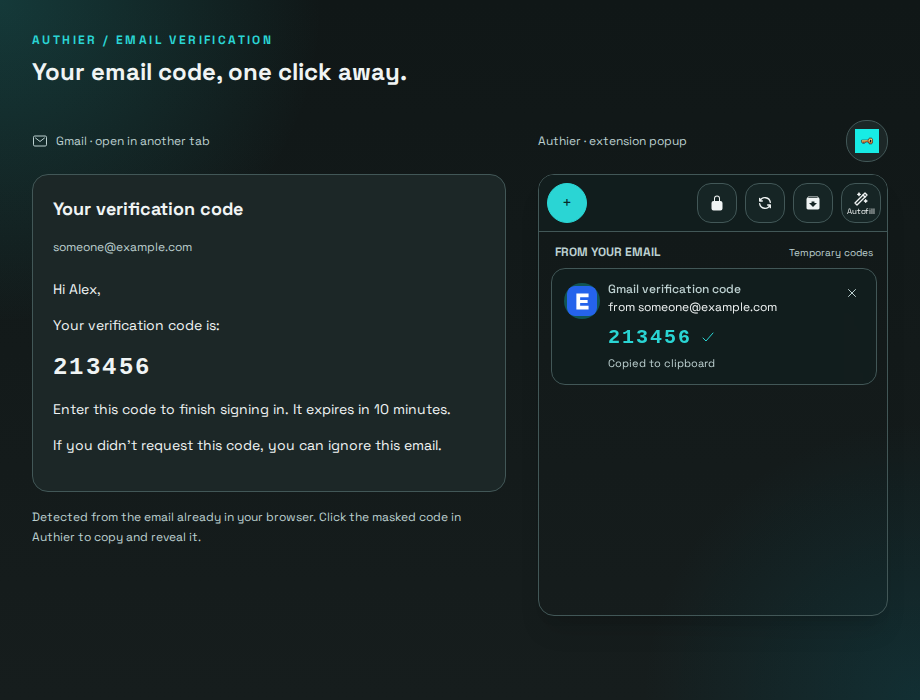
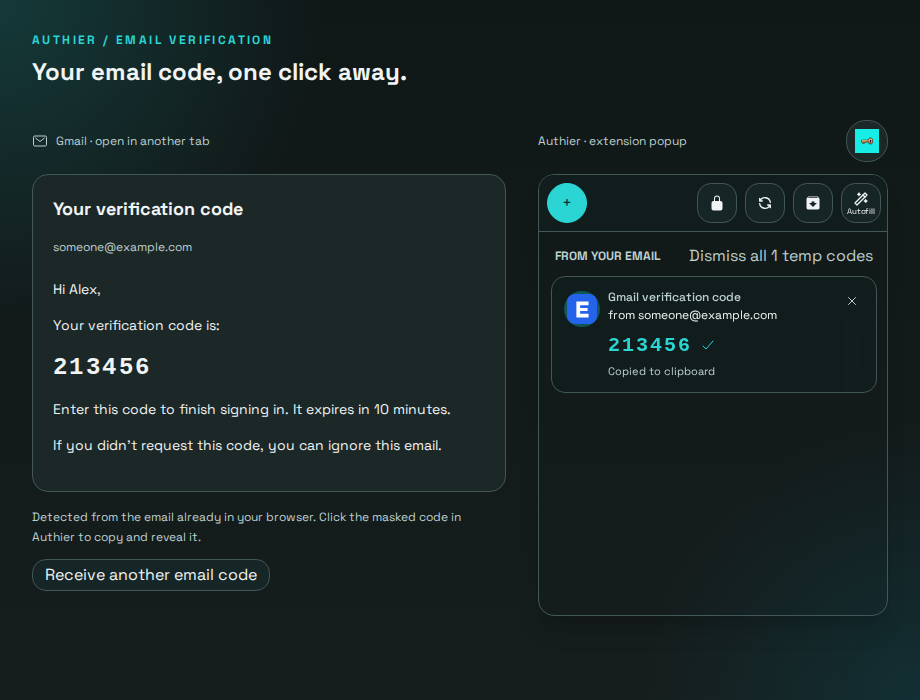
Add bulk dismissal for verification codes

Changed region(s): [[0.6087, 0.33, 0.9435, 0.54], [0.0304, 0.81, 0.3043, 0.84]]

diff --git a/web-extension/src/verification-codes/VerificationCodes.tsx b/web-extension/src/verification-codes/VerificationCodes.tsx
@@ -136,23 +136,51 @@ const VerificationCodeItem = ({
 const CodeSection = ({
   section,
   entries,
-  update
+  update,
+  dismissAll
 }: {
   section: (typeof codeSections)[number]
   entries: VerificationCode[]
   update: UpdateCode
+  dismissAll: ReturnType<typeof useVerificationCodes>['dismissAll']
 }) => {
+  const [busy, setBusy] = useState(false)
+  const [error, setError] = useState('')
   if (!entries.length) return null
+
+  const dismiss = () => {
+    setBusy(true)
+    setError('')
+    void dismissAll(entries)
+      .catch(() => {
+        setError('Could not dismiss the codes. Please try again.')
+      })
+      .finally(() => setBusy(false))
+  }
+
   return (
     <section aria-label={section.label} className="px-3 pt-3 pb-1">
       <div className="mb-2 flex items-center justify-between gap-2 px-1">
         <h2 className="text-xs font-semibold text-[color:var(--color-muted)]">
           {section.heading}
         </h2>
-        <span className="text-[10px] text-[color:var(--color-muted)]">
-          Temporary codes
-        </span>
+        <button
+          type="button"
+          className="shrink-0 rounded-sm text-[10px] text-[color:var(--color-muted)] hover:text-[color:var(--color-primary)] hover:underline focus-visible:outline-[color:var(--color-ring)] disabled:opacity-60"
+          disabled={busy}
+          onClick={dismiss}
+        >
+          Dismiss all {entries.length} temp codes
+        </button>
       </div>
+      {error ? (
+        <p
+          role="alert"
+          className="mb-2 text-xs text-[color:var(--color-danger)]"
+        >
+          {error}
+        </p>
+      ) : null}
       <ul className="grid gap-2">
         {entries.map((entry) => (
           <VerificationCodeItem key={entry.id} entry={entry} update={update} />
@@ -163,7 +191,7 @@ const CodeSection = ({
 }
 
 export const VerificationCodes = () => {
-  const { entries, error, update } = useVerificationCodes()
+  const { entries, error, update, dismissAll } = useVerificationCodes()
   if (!entries.length && !error) return null
 
   return (
@@ -182,6 +210,7 @@ export const VerificationCodes = () => {
           section={section}
           entries={entries.filter(section.includes)}
           update={update}
+          dismissAll={dismissAll}
         />
       ))}
     </>

diff --git a/web-extension/src/background/verificationCodes.spec.ts b/web-extension/src/background/verificationCodes.spec.ts
@@ -250,15 +250,17 @@ describe('verification code background messages', () => {
 
   it('does not disclose codes to Gmail or ordinary content scripts', async () => {
     await report()
+    const [entry] = await list()
     for (const kind of [
       CodeMessageKind.LIST,
       CodeMessageKind.COPIED,
       CodeMessageKind.DISMISS,
+      CodeMessageKind.DISMISS_MANY,
       CodeMessageKind.OPEN_SOURCE
     ]) {
       expect(
         await handleVerificationCodeMessage(
-          { kind, id: (await list())[0].id },
+          { kind, id: entry.id, ids: [entry.id] },
           gmailSender
         )
       ).toBeNull()
@@ -488,6 +490,41 @@ describe('verification code background messages', () => {
     await report()
     expect(await list()).toEqual([])
     expect(JSON.stringify(storage)).not.toContain(candidate.code)
+  })
+
+  it('dismisses the selected codes atomically and does not resurrect them', async () => {
+    await Promise.all([report(), report('ABCDEFGH')])
+    const entries = await list()
+    vi.mocked(browser.storage.session.set).mockClear()
+    const response = await handleVerificationCodeMessage(
+      {
+        kind: CodeMessageKind.DISMISS_MANY,
+        ids: entries.map((entry) => entry.id)
+      },
+      popupSender
+    )
+    expect(response).toEqual([])
+    expect(browser.storage.session.set).toHaveBeenCalledTimes(1)
+    expect(setBadgeText).toHaveBeenLastCalledWith({ text: '' })
+    await Promise.all([report(), report('ABCDEFGH')])
+    expect(await list()).toEqual([])
+  })
+
+  it('preserves codes arriving before a queued bulk dismissal is processed', async () => {
+    await report()
+    const [entry] = await list()
+    await Promise.all([
+      report('A1B2C3'),
+      handleVerificationCodeMessage(
+        { kind: CodeMessageKind.DISMISS_MANY, ids: [entry.id] },
+        popupSender
+      )
+    ])
+    const remaining = await list()
+    expect(remaining).toHaveLength(1)
+    expect(remaining[0].code).toBe('A1B2C3')
+    expect(remaining[0].copied).toBe(false)
+    expect(setBadgeText).toHaveBeenLastCalledWith({ text: '•' })
   })
 
   it('expires code values and clears the badge and alarm', async () => {

diff --git a/web-extension/ui-preview/scenarios/EmailVerificationCodesPreview.tsx b/web-extension/ui-preview/scenarios/EmailVerificationCodesPreview.tsx
@@ -1,16 +1,21 @@
-import { useSyncExternalStore } from 'react'
+import { useState, useSyncExternalStore } from 'react'
 import { IoMailOutline } from 'react-icons/io5'
 import { VerificationCodes } from '@src/verification-codes/VerificationCodes'
 import { observeGmailCodes } from '@src/verification-codes/readGmailCodes'
+import { Button } from '@src/components/ui/button'
 import { PopupPreview } from '../PopupPreview'
 import { getPreviewActiveTabId, subscribePreviewTab } from '../browserMock'
-import { gmailVerificationEmail } from '../fixtures/gmailVerificationEmail'
+import {
+  gmailVerificationEmail,
+  gmailUnreadVerificationEmail
+} from '../fixtures/gmailVerificationEmail'
 import {
   CodePopupToolbar,
   useCodePreviewBackground
 } from './codePreviewBackground'
 
 export const EmailVerificationCodesPreview = () => {
+  const [email, setEmail] = useState(gmailVerificationEmail)
   const ready = useCodePreviewBackground({
     reportUrl: 'https://mail.google.com/mail/u/0/#inbox',
     reportTabId: 42,
@@ -40,12 +45,20 @@ export const EmailVerificationCodesPreview = () => {
           <div
             data-gmail-fixture
             className="rounded-2xl border border-[color:var(--color-border)] bg-[color:var(--color-card)] p-5 text-sm [&_.hP]:mb-4 [&_.hP]:text-lg [&_.hP]:font-semibold [&_.gE]:mb-6 [&_.gE]:text-xs [&_.gE]:text-[color:var(--color-muted)] [&_p]:mb-4 [&_strong]:font-mono [&_strong]:text-2xl [&_strong]:tracking-widest"
-            dangerouslySetInnerHTML={{ __html: gmailVerificationEmail }}
+            dangerouslySetInnerHTML={{ __html: email }}
           />
           <p className="mt-4 text-xs leading-relaxed text-[color:var(--color-muted)]">
             Detected from the email already in your browser. Click the masked
             code in Authier to copy and reveal it.
           </p>
+          <Button
+            className="mt-3"
+            size="sm"
+            variant="outline"
+            onClick={() => setEmail(gmailUnreadVerificationEmail)}
+          >
+            Receive another email code
+          </Button>
         </div>
         <div>
           <CodePopupToolbar badgeLabel="New email verification code" />

diff --git a/web-extension/tests/ui-preview/emailVerificationCodes.spec.ts b/web-extension/tests/ui-preview/emailVerificationCodes.spec.ts
@@ -136,6 +136,44 @@ test('detects a later unread inbox email while the popup is already open', async
   await expect(page.getByLabel('New email verification code')).toBeVisible()
 })
 
+test('bulk dismissal counts codes and keeps an email received half a second before clicking', async ({
+  page
+}) => {
+  await page.clock.install()
+  await page.goto('/?scenario=email-verification-codes')
+  const popup = page.locator('[data-preview-popup]')
+  await expect(popup.getByText('213***', { exact: true })).toBeVisible()
+  await expect(
+    popup.getByRole('button', { name: 'Dismiss all 1 temp codes', exact: true })
+  ).toBeVisible()
+  await page.clock.runFor(1000)
+  await page.getByRole('button', { name: 'Receive another email code' }).click()
+  await page.clock.runFor(500)
+  await expect(popup.getByText('A7B*****', { exact: true })).toBeVisible()
+  await page.screenshot({
+    path: '../docs/screenshots/email-verification-codes-dismiss-all.png'
+  })
+  await popup
+    .getByRole('button', { name: 'Dismiss all 2 temp codes', exact: true })
+    .click()
+  await expect(popup.getByText('213***', { exact: true })).toHaveCount(0)
+  await expect(popup.getByText('A7B*****', { exact: true })).toBeVisible()
+  await expect(page.getByLabel('New email verification code')).toBeVisible()
+  const dismiss = popup.getByRole('button', {
+    name: 'Dismiss all 1 temp codes',
+    exact: true
+  })
+  await dismiss.click()
+  await expect(popup.getByText('A7B*****', { exact: true })).toBeVisible()
+  // Allow a full second after the observer has detected the new email.
+  await page.clock.runFor(1000)
+  await dismiss.click()
+  await expect(
+    popup.getByRole('region', { name: 'Email verification codes' })
+  ).toHaveCount(0)
+  await expect(page.getByLabel('New email verification code')).toHaveCount(0)
+})
+
 test('copies normalized codes from different real browser HTML layouts', async ({
   page
 }) => {

diff --git a/web-extension/src/verification-codes/useVerificationCodes.spec.ts b/web-extension/src/verification-codes/useVerificationCodes.spec.ts
@@ -1,0 +1,54 @@
+import { act, renderHook } from '@testing-library/react'
+import { afterEach, beforeEach, expect, it, vi } from 'vitest'
+import browser from 'webextension-polyfill'
+import {
+  CodeMessageKind,
+  VERIFICATION_CODE_LIFETIME_MS,
+  type VerificationCode
+} from './verificationCodeProtocol'
+import { useVerificationCodes } from './useVerificationCodes'
+
+const code = (age: number): VerificationCode => ({
+  provider: 'Gmail',
+  sender: 'someone@example.com',
+  code: '213456',
+  id: crypto.randomUUID(),
+  detectedAt: Date.now() - age,
+  expiresAt: Date.now() + VERIFICATION_CODE_LIFETIME_MS,
+  copied: false
+})
+
+beforeEach(() => {
+  vi.useFakeTimers()
+  vi.setSystemTime(new Date('2026-10-05T12:00:00Z'))
+  vi.mocked(browser.runtime.sendMessage).mockReset().mockResolvedValue([])
+})
+
+afterEach(() => {
+  vi.useRealTimers()
+})
+
+it('dismisses codes at least one second old and keeps codes just inside the grace period', async () => {
+  const old = code(2000)
+  const boundary = code(1000)
+  const fresh = code(999)
+  const { result } = renderHook(useVerificationCodes)
+  await act(async () => {
+    await result.current.dismissAll([old, boundary, fresh])
+  })
+  expect(browser.runtime.sendMessage).toHaveBeenCalledWith({
+    kind: CodeMessageKind.DISMISS_MANY,
+    ids: [old.id, boundary.id]
+  })
+})
+
+it('leaves an entirely fresh section untouched', async () => {
+  const { result } = renderHook(useVerificationCodes)
+  await act(async () => {
+    await result.current.dismissAll([code(999), code(0)])
+  })
+  expect(browser.runtime.sendMessage).not.toHaveBeenCalledWith({
+    kind: CodeMessageKind.DISMISS_MANY,
+    ids: expect.anything()
+  })
+})

diff --git a/web-extension/src/verification-codes/useVerificationCodes.ts b/web-extension/src/verification-codes/useVerificationCodes.ts
@@ -68,14 +68,28 @@ export const useVerificationCodes = () => {
     }
   }, [])
 
-  const update = async (
-    kind: typeof CodeMessageKind.COPIED | typeof CodeMessageKind.DISMISS,
-    id: string
-  ) => {
-    const response: unknown = await browser.runtime.sendMessage({ kind, id })
+  const applyUpdate = (response: unknown) => {
     const parsed = verificationCodesSchema.parse(response)
     setEntries(parsed.filter((entry) => entry.expiresAt > Date.now()))
   }
 
-  return { entries, error, update }
+  const update = (
+    kind: typeof CodeMessageKind.COPIED | typeof CodeMessageKind.DISMISS,
+    id: string
+  ) => browser.runtime.sendMessage({ kind, id }).then(applyUpdate)
+
+  const dismissAll = async (sectionEntries: VerificationCode[]) => {
+    // Snapshot eligible IDs at click time so new arrivals cannot be swept up,
+    // even if the background takes a while to process this request.
+    const cutoff = Date.now() - 1000
+    const ids = sectionEntries
+      .filter((entry) => entry.detectedAt <= cutoff)
+      .map((entry) => entry.id)
+    if (!ids.length) return
+    await browser.runtime
+      .sendMessage({ kind: CodeMessageKind.DISMISS_MANY, ids })
+      .then(applyUpdate)
+  }
+
+  return { entries, error, update, dismissAll }
 }

diff --git a/web-extension/tests/ui-preview/smsVerificationCodes.spec.ts b/web-extension/tests/ui-preview/smsVerificationCodes.spec.ts
@@ -61,6 +61,26 @@ test('picks up a code the phone relays while the popup is open', async ({
   expect(await page.evaluate(() => navigator.clipboard.readText())).toBe('4827')
 })
 
+test('dismisses all older phone codes from both web and Android sources', async ({
+  page
+}) => {
+  await page.clock.install()
+  await page.goto('/?scenario=sms-verification-codes')
+  const sms = page.getByRole('region', { name: 'SMS verification codes' })
+  const dismiss = sms.getByRole('button', {
+    name: 'Dismiss all 3 temp codes',
+    exact: true
+  })
+  await expect(dismiss).toBeVisible()
+  await page.clock.runFor(1000)
+  await dismiss.click()
+  await expect(sms).toHaveCount(0)
+  await expect(page.getByLabel('New SMS verification code')).toHaveCount(0)
+  // The next phone poll must not restore dismissed codes.
+  await page.clock.runFor(4000)
+  await expect(sms).toHaveCount(0)
+})
+
 test('badges a phone relay with the popup closed and shows it on opening', async ({
   page
 }) => {

diff --git a/web-extension/src/verification-codes/verificationCodeProtocol.ts b/web-extension/src/verification-codes/verificationCodeProtocol.ts
@@ -21,7 +21,8 @@ export const CodeMessageKind = {
   GET_FOR_PAGE: 'authierVerificationCodeGetForPage',
   FILLED_FOR_PAGE: 'authierVerificationCodeFilledForPage',
   OPEN_SOURCE: 'authierVerificationCodeOpenSource',
-  DISMISS: 'authierVerificationCodeDismiss'
+  DISMISS: 'authierVerificationCodeDismiss',
+  DISMISS_MANY: 'authierVerificationCodeDismissMany'
 } as const
 export const CODE_MESSAGE_PREFIX = 'authierVerificationCode'
 
@@ -121,6 +122,10 @@ export const codeMessageSchema = z.discriminatedUnion('kind', [
   idMessage(CodeMessageKind.FILLED_FOR_PAGE),
   idMessage(CodeMessageKind.COPIED),
   idMessage(CodeMessageKind.DISMISS),
+  z.object({
+    kind: z.literal(CodeMessageKind.DISMISS_MANY),
+    ids: z.array(z.string().uuid()).max(20)
+  }),
   idMessage(CodeMessageKind.OPEN_SOURCE)
 ])
 

diff --git a/web-extension/src/background/verificationCodes.ts b/web-extension/src/background/verificationCodes.ts
@@ -296,6 +296,10 @@ export const handleVerificationCodeMessage = (
   return updateState((state) => {
     if (request.kind === CodeMessageKind.DISMISS) {
       state.entries = state.entries.filter((entry) => entry.id !== request.id)
+    } else if (request.kind === CodeMessageKind.DISMISS_MANY) {
+      state.entries = state.entries.filter(
+        (entry) => !request.ids.includes(entry.id)
+      )
     } else if (request.kind === CodeMessageKind.COPIED) {
       const entry = state.entries.find((entry) => entry.id === request.id)
       if (entry) entry.copied = true

diff --git a/web-extension/ui-preview/README.md b/web-extension/ui-preview/README.md
@@ -26,6 +26,10 @@ to verify masked codes, copy/reveal, clipboard rejection, new inbox previews,
 expiry, sender favicons with a mail-icon fallback, and opening the source Gmail
 tab without copying the code. The popover's sender favicon carries a red mail
 badge for a new code. The favicon response is a deterministic fixture.
+The "Receive another email code" control also exercises bulk dismissal: the
+popover counts each section's codes and preserves arrivals less than one second
+old when "Dismiss all X temp codes" is clicked. The suite captures this action in
+`docs/screenshots/email-verification-codes-dismiss-all.png`.
 It captures `docs/screenshots/email-verification-codes.png` and
 `docs/screenshots/email-verification-codes-copied.png`.
 
